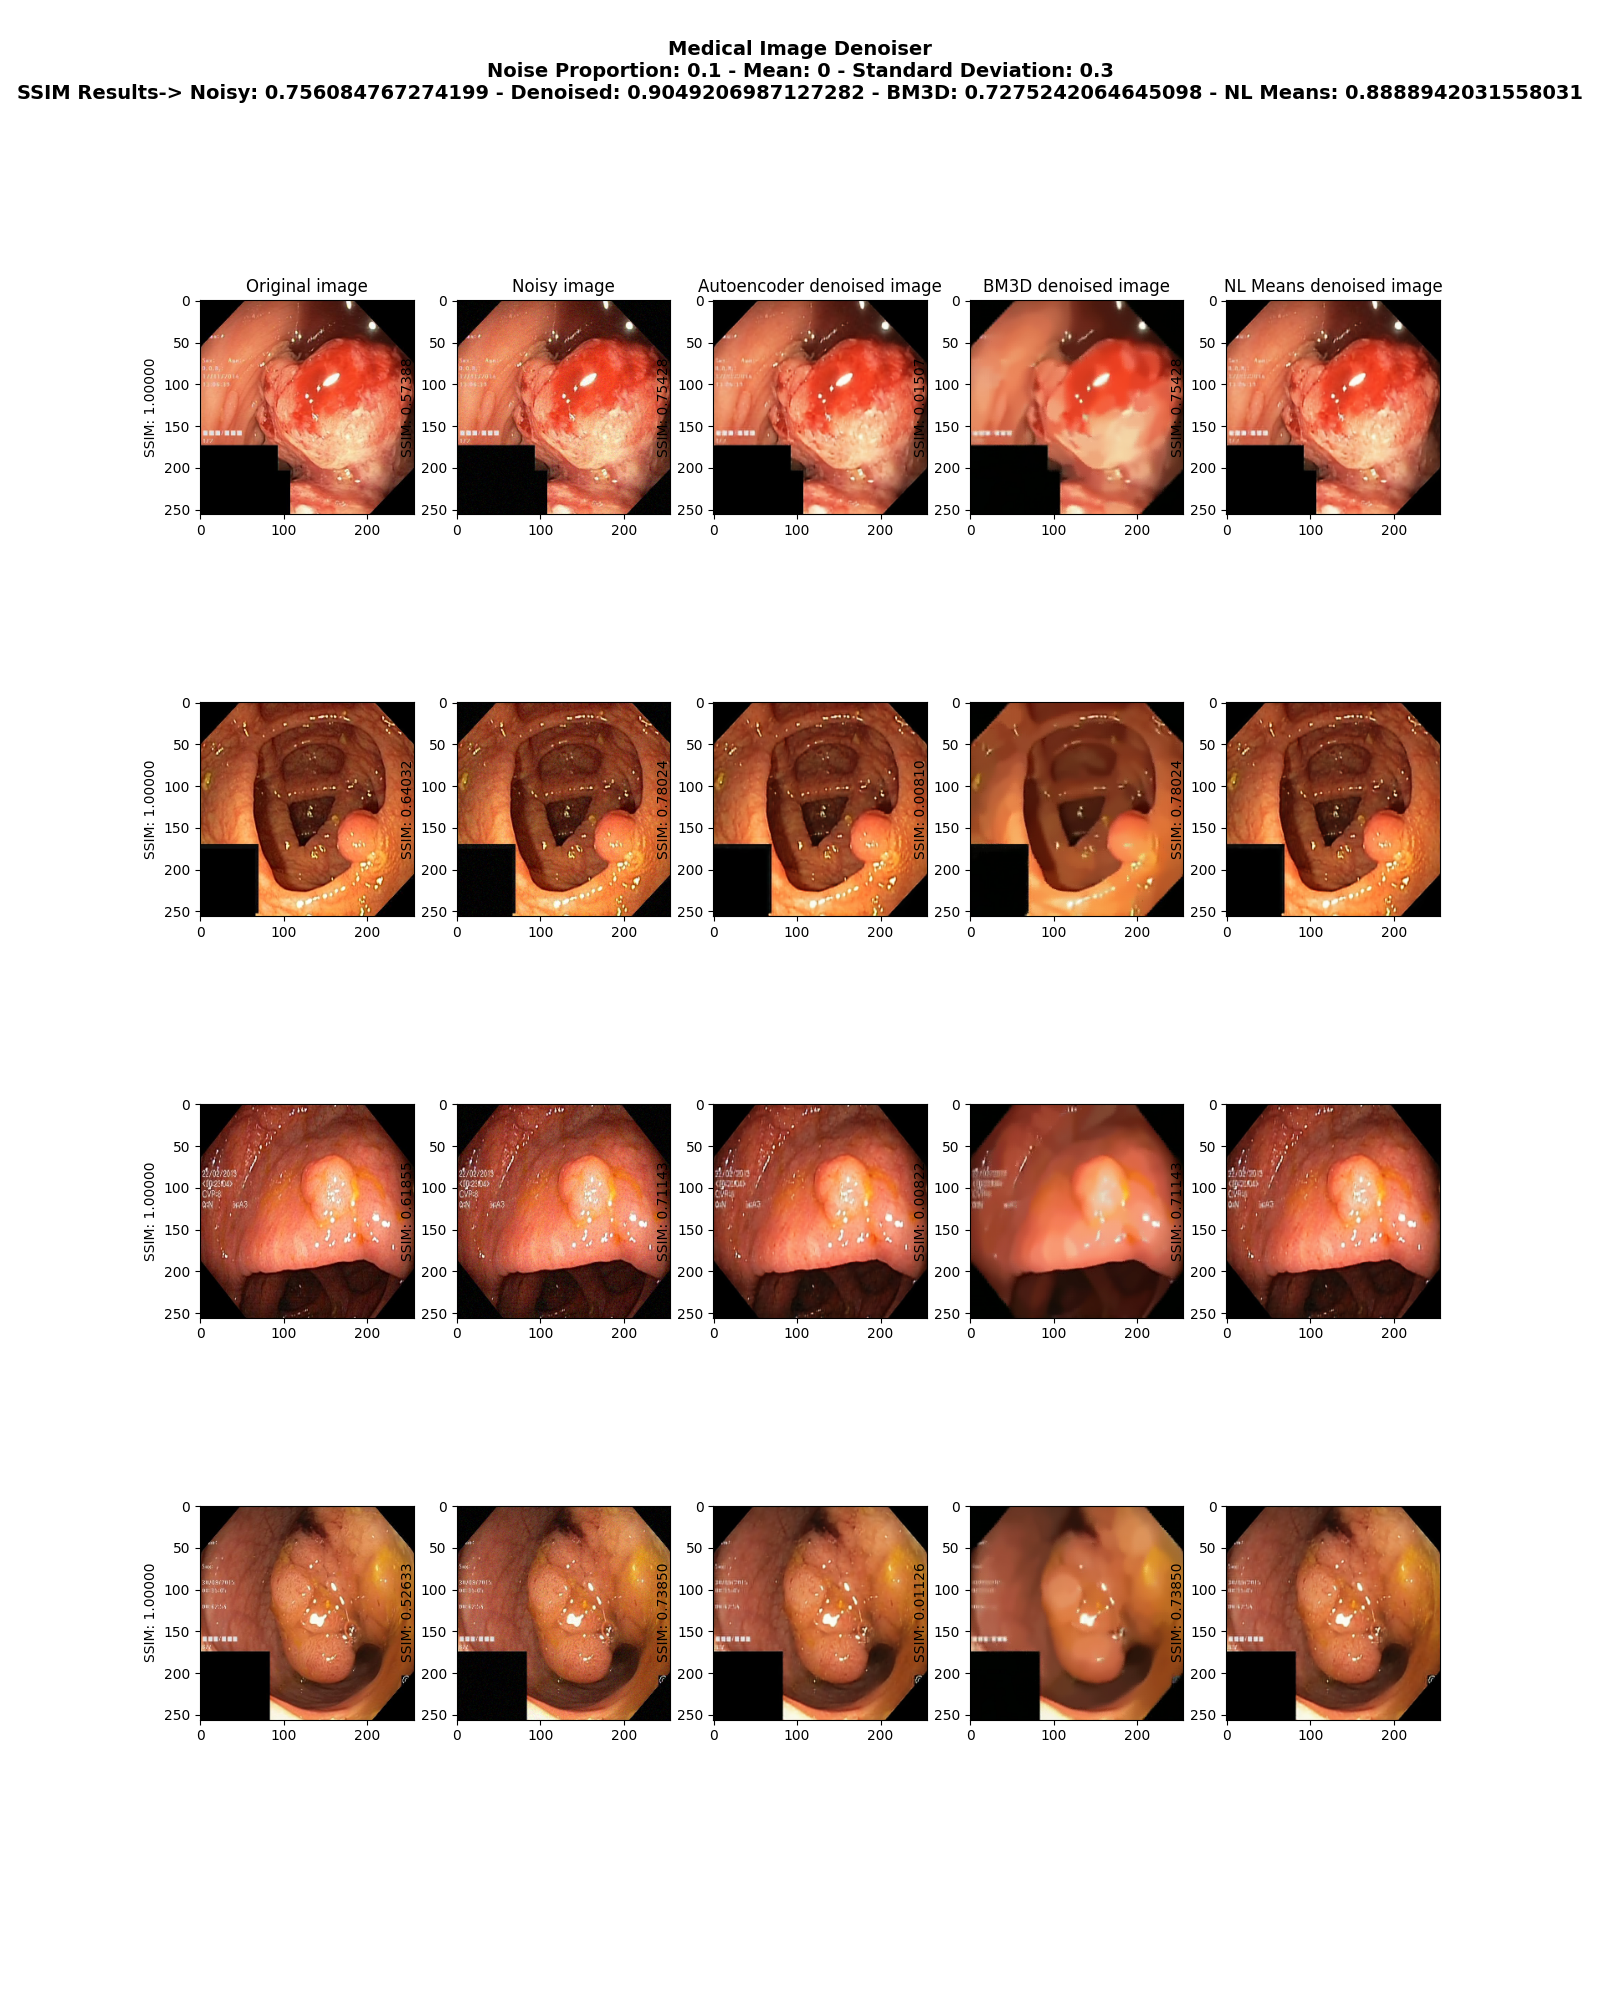
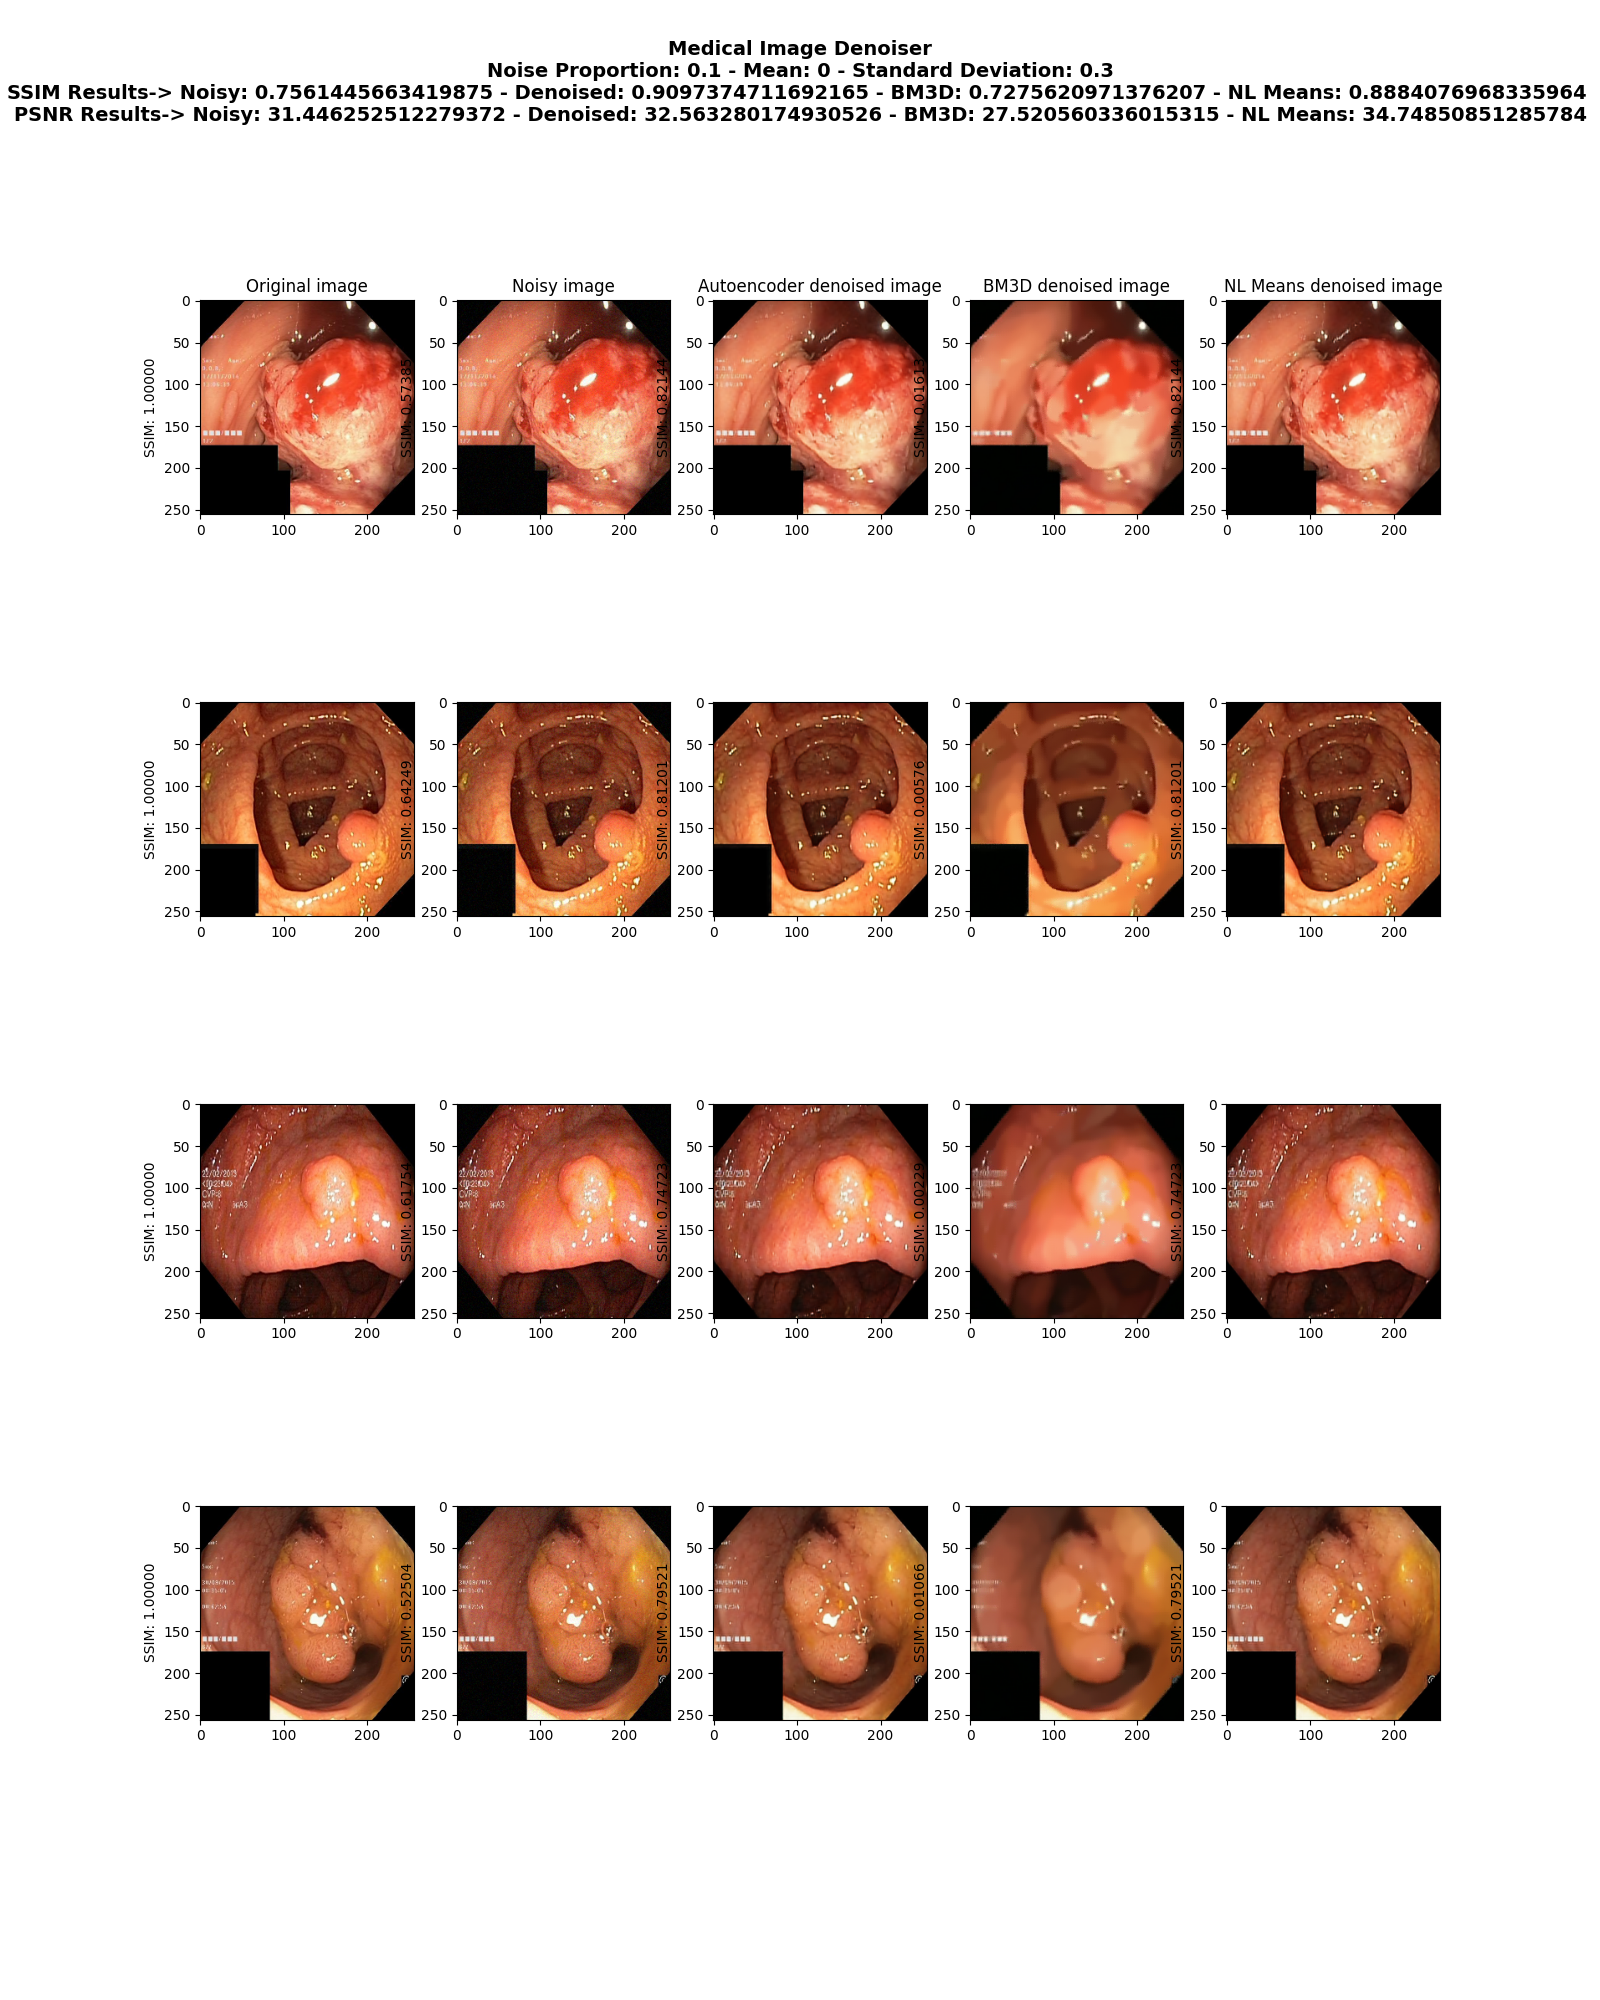
results

Changed region(s): [[0.0, 0.031, 1.0, 0.062]]

diff --git a/2021/src/Pre-processing/Isotropic/Noise/src/denoising_rgb/conv_denoiser.py b/2021/src/Pre-processing/Isotropic/Noise/src/denoising_rgb/conv_denoiser.py
@@ -7,8 +7,12 @@ import cv2
 def nlm_denoise(noisy_image):
     noisy_image = noisy_image * 255.0
     denoised = []
+    e1 = cv2.getTickCount()
     sigma_est = np.mean(estimate_sigma(noisy_image, multichannel=True, average_sigmas=True))
     denoised_image = denoise_nl_means(noisy_image, h=1*sigma_est, multichannel=True)
+    e2 = cv2.getTickCount()
+    time = (e2 - e1) / cv2.getTickFrequency()   # 计算函数执行时间
+    print("The Processing time of the NL is %f s" % time)
     denoised.append(denoised_image)
     print("Image denoised using NL Means")
 
@@ -38,12 +42,12 @@ def bm3d_denoise(noisy_image):
     # print("The PSNR between noisy image and ref image is %f" % psnr)
 
     # # 记录程序运行时间
-    # e1 = cv2.getTickCount()  # cv2.getTickCount 函数返回从参考点到这个函数被执行的时钟数
+    e1 = cv2.getTickCount()  # cv2.getTickCount 函数返回从参考点到这个函数被执行的时钟数
     Basic_img = BM3D_1st_step_color(imgYCB)
 
-    # e2 = cv2.getTickCount()
-    # time = (e2 - e1) / cv2.getTickFrequency()   # 计算函数执行时间
-    # print("The Processing time of the First step is %f s" % time)
+    e2 = cv2.getTickCount()
+    time = (e2 - e1) / cv2.getTickFrequency()   # 计算函数执行时间
+    print("The Processing time of the First step is %f s" % time)
 
     # cv2.imwrite("Basic_sigma"+str(sigma)+"_color.png",
     #             cv2.cvtColor(Basic_img, cv2.COLOR_YCrCb2BGR))
@@ -55,9 +59,9 @@ def bm3d_denoise(noisy_image):
     # cv2.imwrite("Final_sigma"+str(sigma)+"_color.png",
     #             cv2.cvtColor(Final_img, cv2.COLOR_YCrCb2BGR))
 
-    # e3 = cv2.getTickCount()
-    # time = (e3 - e2) / cv2.getTickFrequency()
-    # print("The Processing time of the Second step is %f s" % time)
+    e3 = cv2.getTickCount()
+    time = (e3 - e2) / cv2.getTickFrequency()
+    print("The Processing time of the Second step is %f s" % time)
     # psnr = PSNR2(img_gold, cv2.cvtColor(Final_img, cv2.COLOR_YCrCb2BGR))
     # print("The PSNR compared with gold image for the Second step is %f" % psnr)
 

diff --git a/2021/src/Pre-processing/Isotropic/Noise/src/denoising_rgb/samples_plt.py b/2021/src/Pre-processing/Isotropic/Noise/src/denoising_rgb/samples_plt.py
@@ -66,17 +66,32 @@ def plot_samples(noise_vals, noisy_input_test, denoised_images, pure_test, nu_sa
         np.array(pure_images) * 255.0, np.array(bm3d_images), img_height, img_width)
     n4 = measure.get_set_ssim(
         np.array(pure_images) * 255.0, np.array(nl_images), img_height, img_width)
+
+    n5 = measure.get_set_psnr(np.array(pure_images), np.array(
+        noisy_images), img_height, img_width)
+    n6 = measure.get_set_psnr(np.array(pure_images),
+                              denoised_images, img_height, img_width)
+    n7 = measure.get_set_psnr(
+        np.array(pure_images) * 255.0, np.array(bm3d_images), img_height, img_width)
+    n8 = measure.get_set_psnr(
+        np.array(pure_images) * 255.0, np.array(nl_images), img_height, img_width)
     print("Noisy SSIM: {0}".format(n1))
     print("Denoised SSIM: {0}".format(n2))
     print("BM3D SSIM: {0}".format(n3))
     print("NL Means SSIM: {0}".format(n4))
+
+    print("Noisy PSNR: {0}".format(n5))
+    print("Denoised PSNR: {0}".format(n6))
+    print("BM3D PSNR: {0}".format(n7))
+    print("NL Means PSNR: {0}".format(n8))
     fig.suptitle(
         "Medical Image Denoiser\nNoise Proportion: {0} - Mean: {1} - Standard Deviation: {2}\nSSIM Results-> Noisy: {3} - "
-        "Denoised: {4} - BM3D: {5} - NL Means: {6}".format(
-            noise_prop, noise_mean, noise_std, n1, n2, n3, n4),
+        "Denoised: {4} - BM3D: {5} - NL Means: {6} \nPSNR Results-> Noisy: {7} - Denoised: {8} - BM3D: {9} - NL Means: {10}".format(
+            noise_prop, noise_mean, noise_std, n1, n2, n3, n4, n5, n6, n7, n8),
         fontsize=14,
         fontweight='bold')
-    filesave = "results/output" + str(noise_prop) + "_" + str(noise_mean) + "_" + str(noise_std) + str(img_width) + "_" + str(img_height) + ".png"
+    filesave = "results/output" + str(noise_prop) + "_" + str(noise_mean) + "_" + str(
+        noise_std) + str(img_width) + "_" + str(img_height) + ".png"
     plt.savefig(filesave)
     # plt.show()
 

diff --git a/2021/src/Pre-processing/Isotropic/Noise/src/denoising_rgb/measure.py b/2021/src/Pre-processing/Isotropic/Noise/src/denoising_rgb/measure.py
@@ -2,10 +2,24 @@
 # import math
 # import numpy
 from skimage.metrics import structural_similarity as ssim
+from skimage.metrics import peak_signal_noise_ratio as psnr
 
 
 def get_image_ssim(original_img, noisy_img):
     return ssim(original_img*255.0, noisy_img*255.0, data_range=original_img.max() - noisy_img.min(), multichannel=True)
+
+
+# img_set: [batch, height, width, 3]
+def get_set_psnr(original_img_set, noisy_img_set, img_height=64, img_width=64):
+    psnr_sum = 0
+    original_img_set = original_img_set.reshape(
+        original_img_set.shape[0], img_height, img_width, 3)
+    noisy_img_set = noisy_img_set.reshape(
+        noisy_img_set.shape[0], img_height, img_width, 3)
+    for i in range(original_img_set.shape[0]):
+        psnr_sum += psnr(original_img_set[i], noisy_img_set[i], data_range=original_img_set[i].max(
+        ) - noisy_img_set[i].min())
+    return 1.0*psnr_sum/original_img_set.shape[0]
 
 
 def get_set_ssim(originalSet, noisySet, img_height=64, img_width=64):

diff --git a/2021/src/Pre-processing/Isotropic/Noise/src/denoising_rgb/main.py b/2021/src/Pre-processing/Isotropic/Noise/src/denoising_rgb/main.py
@@ -69,8 +69,8 @@ if __name__ == "__main__":
     validation_split = 0
     train_split = 0.8
     verbosity = 1
-    noise_prop = 0.1
-    noise_std = 0.4
+    noise_prop = 1
+    noise_std = 0.7
     noise_mean = 0
     number_of_samples = 4
     shuffle_test_set = False
@@ -167,7 +167,11 @@ if __name__ == "__main__":
     # Generate denoised images
     samples = noisy_input_test[:]
     print("[LOG] Training and model evaluation completed\n[LOG] Denoising images test set...")
+    e1 = cv2.getTickCount()
     denoised_images = cnn_denoiser.predict(samples)
+    e2 = cv2.getTickCount()
+    time = (e2 - e1) / cv2.getTickFrequency()   # 计算函数执行时间
+    print("The Processing time of the AE is %f s" % (time/noisy_input_test.shape[0]))
 
     print("[LOG] Image denoising completed\n[LOG] Plotting denoised samples")
     samples_plt.plot_samples((noise_prop, noise_std, noise_mean), noisy_input_test, denoised_images, pure_test,
